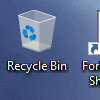
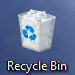
IT WORKS NOW WHAT
ImageLcateFunction Works now for no reaon

diff --git a/MouseController.py b/MouseController.py
@@ -78,7 +78,7 @@ def ScreenShotRegion(Name = 'ScreenShot', Pos = (0,0), Rect = (0,0)):
 
 def LocateImageReturnCenter(PathToImage, GScale = False, Pos = (0,0), Rect = (0,0), Acc = 1):
 	try:
-		Pos = auto.locateOnScreen(PathToImage, region=(Pos[0], Pos[1], Rect[0], Rect[1]), greyscale=GScale, confidence=Acc)
+		Pos = auto.locateOnScreen(PathToImage, region=(Pos[0], Pos[1], Rect[0], Rect[1]), grayscale=GScale, confidence=Acc)
 	except:
 		print("Couldn't find Image")
 		return -1, -1, -1, -1
@@ -95,21 +95,7 @@ def ImageSearchEntireScreen(PathToImage, GScale = False, Acc = 1):
 		return PosX, PosY
 
 def AdjustLocateImageReturnCenter(PathToImage, GScale = False, Acc = 1):
-	ScreenX, ScreenY = auto.size()
-	_quadX = (ScreenX/2)
-	_quadY = (ScreenY/2)
-	Quad1 = ([0, _quadX, 0, _quadX],[ 0, 0, _quadY, _quadY])
-	Quad2 = [(ScreenX/2), (ScreenY/2)]
-	print(Quad1)
-	ExitLoop = False
-	while ExitLoop == False:
-		for i in range(0, 4, 1):
-			Location = auto.locateCenterOnScreen(PathToImage, region=(0, 0, ScreenX, ScreenY), greyscale=GScale, confidence=Acc)
-			if Location == auto.ImageNotFoundException:
-				ScreenX = ScreenX / 2
-				ScreenY = ScreenY / 2
-		if i == 4:
-			ExitLoop = True
+	None #Wip Function, Locate Image and slowly zoom in to find a small region
 
 
 

diff --git a/InputHandler.py b/InputHandler.py
@@ -23,10 +23,10 @@ def HandleCharInput(key):
 		PosX, PosY = _mouse.ImageSearchEntireScreen("Temp.PNG", True, 0.80)
 		print(PosX, PosX)
 	if key.char == 'i':
-		Pos =  _mouse.LocateImageReturnCenter("Temp.PNG", True, (0,0), (75,75), 0.80)
+		Pos =  _mouse.LocateImageReturnCenter("Temp.PNG", True, (0,0), (75,75), 0.50)
 		print(Pos)
 	if key.char == 'o':
-		_mouse.ScreenShotRegion("Test.PNG", (0,0), (75,75))
+		_mouse.ScreenShotRegion("Test.PNG", (0,0), (500,500))
 
 def HandleNonCharInput(key):
 	if key == keyboard.Key.esc:
